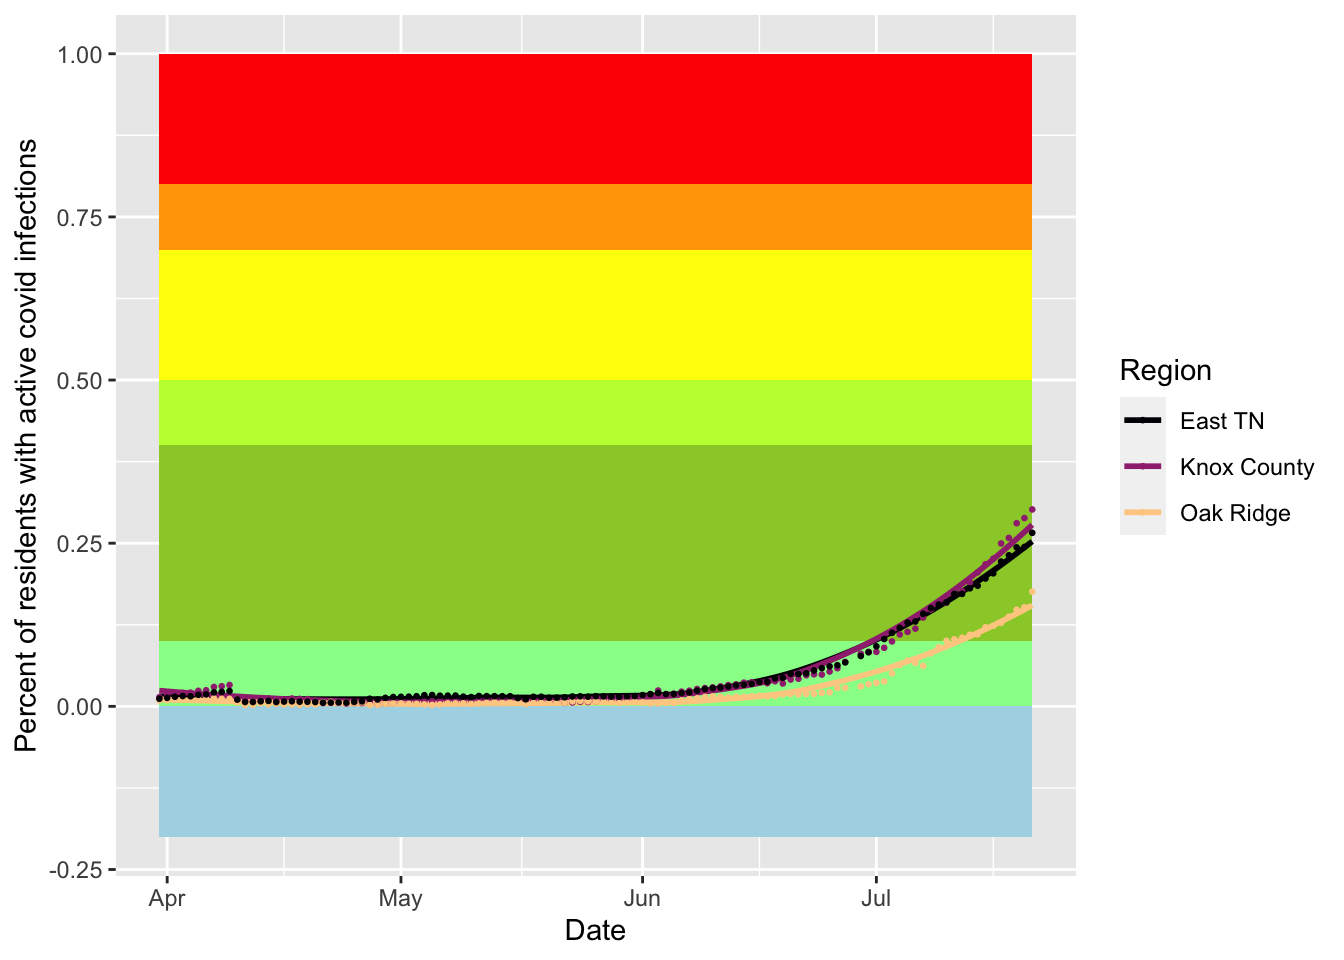
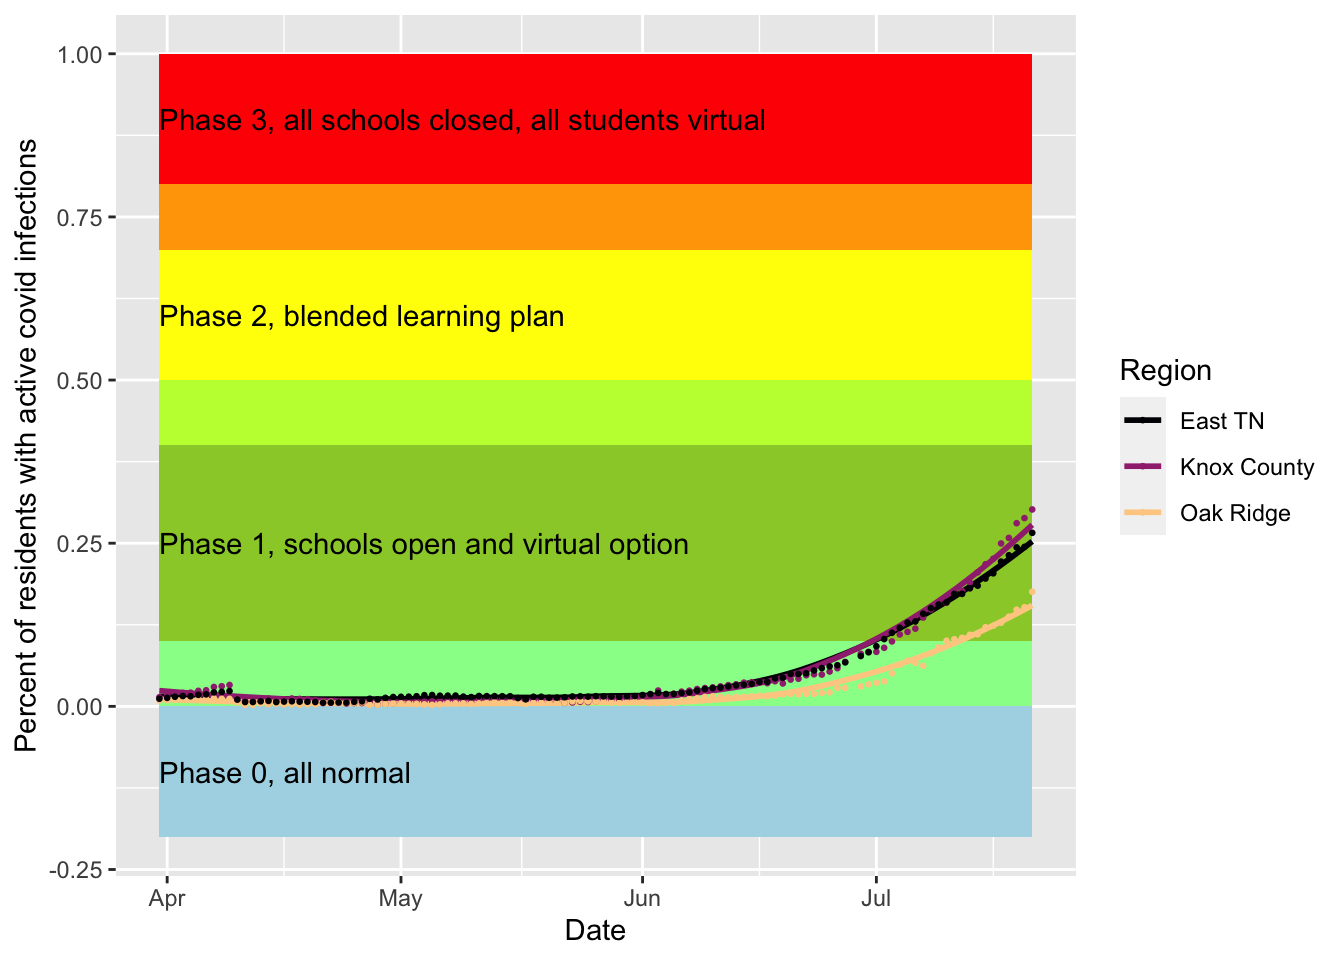
updating site

diff --git a/docs/covid.html b/docs/covid.html
@@ -412,7 +412,7 @@ $(document).ready(function () {
 <li><a href="https://projects.propublica.org/reopening-america/">ProPublica’s tracker of state status</a>. Click on the play button below their map to see how rates are changing over time, and dig into info on your state.</li>
 </ul>
 <hr />
-<p>Here are some plots, created in R using data from <a href="https://covid19datahub.io" class="uri">https://covid19datahub.io</a> (Guidotti, E., Ardia, D., (2020), “COVID-19 Data Hub”, Working paper, doi: 10.13140/RG.2.2.11649.81763), as well as information from Google and the <a href="https://www.tn.gov/health/cedep/ncov/data/downloadable-datasets.html">state of Tennessee dataset page</a> and plotting and analysis using the <code>forecast</code>, <code>ggplot2</code>, <code>reshape2</code>, and <code>dplyr</code> packages. It also uses the <a href="https://github.com/mtna/rds-r">rds-r</a> package from <a href="https://www.richdataservices.com/" class="uri">https://www.richdataservices.com/</a>. Plots created on 2020-07-21 23:40:26. I use <code>ggplot2</code>’s <code>geom_smooth()</code> function for the smoothed regression plots with its default formula, which uses loess smoothing for this many points. This is not based on a model of disease spread or anything similarly sophisticated, just drawing a smooth curve to summarize noisy points (see <a href="https://www.itl.nist.gov/div898/handbook/pmd/section1/pmd144.htm">here</a> for more details).</p>
+<p>Here are some plots, created in R using data from <a href="https://covid19datahub.io" class="uri">https://covid19datahub.io</a> (Guidotti, E., Ardia, D., (2020), “COVID-19 Data Hub”, Working paper, doi: 10.13140/RG.2.2.11649.81763), as well as information from Google and the <a href="https://www.tn.gov/health/cedep/ncov/data/downloadable-datasets.html">state of Tennessee dataset page</a> and plotting and analysis using the <code>forecast</code>, <code>ggplot2</code>, <code>reshape2</code>, and <code>dplyr</code> packages. It also uses the <a href="https://github.com/mtna/rds-r">rds-r</a> package from <a href="https://www.richdataservices.com/" class="uri">https://www.richdataservices.com/</a>. Plots created on 2020-07-21 23:48:31. I use <code>ggplot2</code>’s <code>geom_smooth()</code> function for the smoothed regression plots with its default formula, which uses loess smoothing for this many points. This is not based on a model of disease spread or anything similarly sophisticated, just drawing a smooth curve to summarize noisy points (see <a href="https://www.itl.nist.gov/div898/handbook/pmd/section1/pmd144.htm">here</a> for more details).</p>
 <p>The number of new and active cases should be not be going up if things are well-controlled, and ideally should be going down. The number of active cases is the number of positive cases minus the total of recovered or deceased cases: note it is from those tested and shown to be positive, but there are likely more people with covid who have not been tested. This uses data from <a href="https://www.tn.gov/health/cedep/ncov/data/downloadable-datasets.html" class="uri">https://www.tn.gov/health/cedep/ncov/data/downloadable-datasets.html</a>. Note that the number of active cases in Knox County reported by the state differs from the <a href="https://covid.knoxcountytn.gov/case-count.html#covid_data">county website</a>, sometimes dramatically (on June 16, the county website said 102 active cases, while the state says 178, for example) – I suspect this is based on the number of recovered cases not being updated as quickly in the state data, but I do not know. Knox County does not seem to offer a download of their data through time, so I am using the state’s data. The number of new cases per day seems to align fairly well, but not perfectly, between the state and county data, too.</p>
 <p>I plot three regions</p>
 <ul>
@@ -434,7 +434,7 @@ $(document).ready(function () {
 </h2>
 <p>Many of the local schools are adopting a hybrid approach, where families can choose whether to send their kids to school or do online learning (sometimes with reduced options). The <i>New York Times</i> <a href="https://www.nytimes.com/2020/07/14/us/coronavirus-schools-fall.html">reports</a> on July 14, 2020, that, “As education leaders decide whether to reopen classrooms in the fall amid a raging pandemic, many are looking to a standard generally agreed upon among epidemiologists: To control community spread of the coronavirus, the average daily infection rate among those who are tested should not exceed 5 percent.” Many districts nationally are not hitting that goal, but a question is whether local ones will. The first district to open in our area will be Oak Ridge public schools, who have a start date for students in person on July 29, 2020. Following the procedure of the <i>NYT</i>‘s article, I am plotting the seven day average of positivity rate for tests for the counties including Oak Ridge (Roane and Anderson). The black line is the seven day rolling mean (total new confirmed / total new tests, not a mean of this ratio per day), the blue line is this smoothed, the dotted line is the 5% threshold, and the green rectangle is the first week of school – the positivity should be in that rectangle to meet epidemiologists’ goals. Oak Ridge is giving families options of whether to enroll their children in online or in person school: their plan, and the way to choose either mode, is <a href="https://www.ortn.edu/reopening-plan-2020-2021/">here</a>. They have updated their in person plan to require masks when possible but not social distancing; when individuals test positive, the possibly affected parts of the building will be closed for 2-5 days. We’ve opted for the online option for our family.</p>
 <p><img src="covid_files/figure-html/oakridge7-1.png" width="672" /></p>
-<p><a href="https://www.acs.ac/">Anderson County</a> has a school plan based on the percentage of the community actively infected with covid. Their schools open later than Oak Ridge schools, but it might be a useful indicator for community thinking. Remember the “Oak Ridge” line is Anderson and Roane counties combined. Note that Anderson’s metric is also based on the <em>number</em> of people with active covid (those with positive tests who are not yet recovered or deceased) and so it may be sensitive to the number of tests in a way that the positivity rate is not.</p>
+<p><a href="https://www.acs.ac/">Anderson County</a> has a school plan based on the percentage of the community actively infected with covid. Their schools open later than Oak Ridge schools, but it might be a useful indicator for community thinking. Remember the “Oak Ridge” line is Anderson and Roane counties combined. Note that Anderson’s metric is based on the <em>number</em> of people with active covid (those with positive tests who are not yet recovered or deceased) and so it may be sensitive to the number of tests in a way that the positivity rate is not; in the areas between phases they use other information to make a determination, such as number of absences of students and teachers.</p>
 <p><img src="covid_files/figure-html/andersonstandards-1.png" width="672" /></p>
 <hr />
 <h2>
